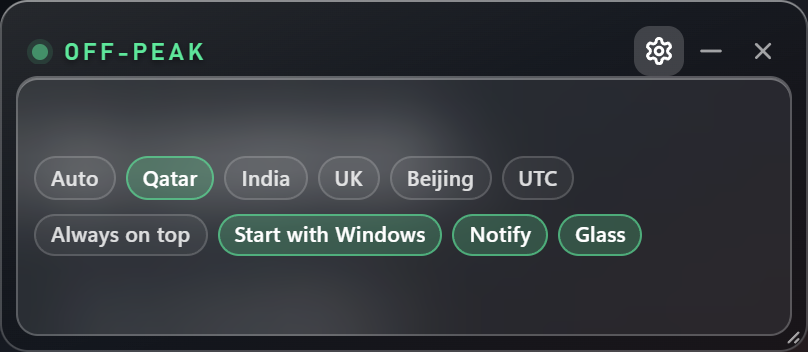
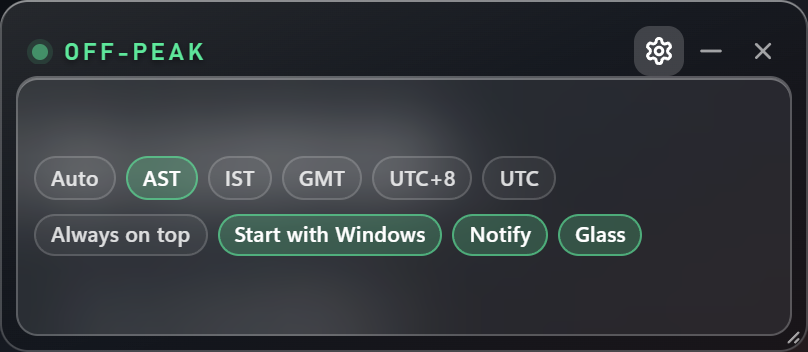
Name the timezone chips by standard abbreviation instead of country

Changed region(s): [[0.1547, 0.4375, 0.7116, 0.5938], [0.2785, 0.5625, 0.4022, 0.5938], [0.6188, 0.5625, 0.6498, 0.5938]]

diff --git a/schedule.py b/schedule.py
@@ -78,14 +78,16 @@ SCAN_AFTER = timedelta(days=24)
 
 DEFAULT_HOLIDAY_FILE = Path(__file__).resolve().parent / "holidays.json"
 
-#: Selectable timezones.  The first one is the default.
+#: Selectable timezones.  The first one is the default.  The chips show the
+#: standard abbreviation, never a country or city name: `short` is what fits on
+#: the card and `label` is the full name used for tooltips and the tray.
 TIMEZONES: tuple[dict[str, str], ...] = (
     {"id": "auto", "label": "System", "short": "Auto"},
-    {"id": "Asia/Qatar", "label": "Qatar", "short": "Qatar"},
-    {"id": "Asia/Kolkata", "label": "India", "short": "India"},
-    {"id": "Europe/London", "label": "UK", "short": "UK"},
-    {"id": "Asia/Shanghai", "label": "Beijing", "short": "Beijing"},
-    {"id": "UTC", "label": "UTC", "short": "UTC"},
+    {"id": "Asia/Qatar", "label": "Arabian Standard Time (UTC+3)", "short": "AST"},
+    {"id": "Asia/Kolkata", "label": "Indian Standard Time (UTC+5:30)", "short": "IST"},
+    {"id": "Europe/London", "label": "Greenwich Mean Time (GMT / BST)", "short": "GMT"},
+    {"id": "Asia/Shanghai", "label": "UTC+8 (no daylight saving)", "short": "UTC+8"},
+    {"id": "UTC", "label": "Coordinated Universal Time", "short": "UTC"},
 )
 
 #: Windows timezone ids -> IANA, for the "System" option.  The OS exposes a

diff --git a/tests/test_schedule.py b/tests/test_schedule.py
@@ -146,7 +146,7 @@ class Formatting(unittest.TestCase):
 
     def test_tz_abbreviation(self):
         zone, canonical, label = S.resolve_tz("Asia/Kolkata")
-        self.assertEqual(label, "India")
+        self.assertEqual(label, "Indian Standard Time (UTC+5:30)")
         self.assertEqual(canonical, "Asia/Kolkata")
         self.assertEqual(
             S.tz_abbreviation(at("2026-09-24T10:00").astimezone(zone), canonical), "GMT+5:30"

diff --git a/README.md b/README.md
@@ -74,9 +74,20 @@ Everything else hides behind the gear so the card stays a countdown:
 
 ![the options sheet](doc/preview-settings.png)
 
-Timezone chips (Auto, Qatar, India, UK, Beijing, UTC) and four switches —
-Always on top, Start with Windows, Notify, Glass. Preferences, position and size
-live in `config.json` next to the app.
+Timezone chips and four switches — Always on top, Start with Windows, Notify,
+Glass. The chips are named by their standard abbreviation rather than a country,
+and the tooltip gives the full name:
+
+| chip | timezone | offset |
+| --- | --- | --- |
+| Auto | whatever Windows is set to | — |
+| AST | Arabian Standard Time | UTC+3 |
+| IST | Indian Standard Time | UTC+5:30 |
+| GMT | Greenwich Mean Time (BST in summer) | UTC+0 / +1 |
+| UTC+8 | UTC+8, no daylight saving | UTC+8 |
+| UTC | Coordinated Universal Time | UTC+0 |
+
+Preferences, position and size live in `config.json` next to the app.
 
 ![peak](doc/preview-peak.png)
 
